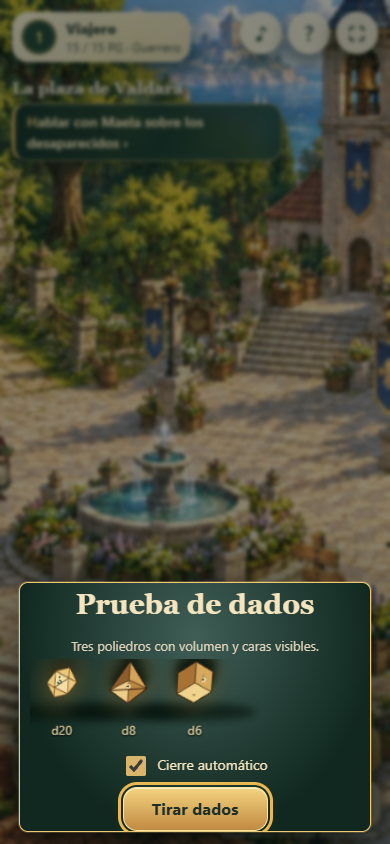
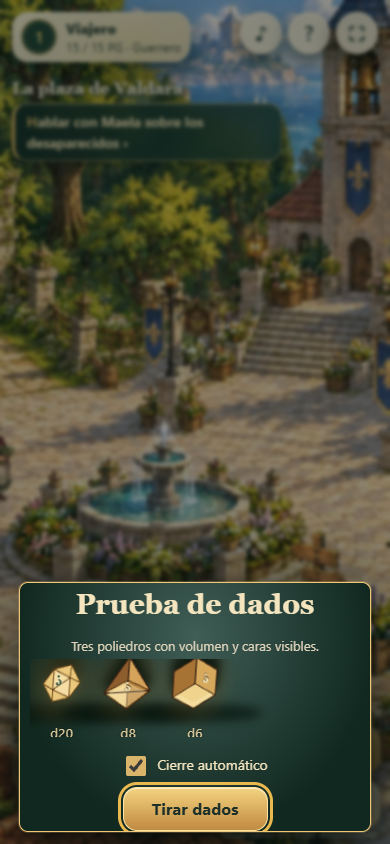
fix: keep dice faces visible during animation

diff --git a/dist/dice.js b/dist/dice.js
@@ -6,8 +6,8 @@ window.CenizasDice=(()=>{
  function icoSvg(shown){const yaw=.52,pitch=-.34,cy=Math.cos(yaw),sy=Math.sin(yaw),cx=Math.cos(pitch),sx=Math.sin(pitch),project=v=>{let x=v[0]*cy+v[2]*sy,z=-v[0]*sy+v[2]*cy,y=v[1]*cx-z*sx;z=v[1]*sx+z*cx;return {x:60+x*22,y:60-y*22,z};},points=ICO_VERTICES.map(project),faces=ICO_FACES.map(face=>{const p=face.map(i=>points[i]);return {p,z:p.reduce((sum,v)=>sum+v.z,0)/3};}).sort((a,b)=>a.z-b.z),min=Math.min(...faces.map(f=>f.z)),max=Math.max(...faces.map(f=>f.z)),palette=['#9d6a2d','#bd8740','#d7a95c','#ebca82','#f6dfa9'],polys=faces.map(f=>{const shade=Math.round((f.z-min)/(max-min)*(palette.length-1)),pointsText=f.p.map(v=>`${v.x.toFixed(1)},${v.y.toFixed(1)}`).join(' ');return `<polygon class="d20-facet" style="fill:${palette[shade]}" points="${pointsText}"/>`;}).join(''),front=faces[faces.length-1].p,cx2=front.reduce((sum,v)=>sum+v.x,0)/3,cy2=front.reduce((sum,v)=>sum+v.y,0)/3,target=Number(shown),remaining=Array.from({length:20},(_,i)=>i+1).filter(n=>n!==target),labels=shown==='?'?'':faces.map((f,i)=>{const c=f.p.reduce((o,v)=>({x:o.x+v.x,y:o.y+v.y}),{x:0,y:0}),n=i===faces.length-1?target:remaining[i-(i>faces.length-1?1:0)];return `<text class="${i===faces.length-1?'d20-number':'d20-face-number'}" x="${(c.x/3).toFixed(1)}" y="${(c.y/3).toFixed(1)}" text-anchor="middle" dominant-baseline="middle">${n}</text>`;}).join('');return `<svg class="d20-svg" viewBox="0 0 120 120" aria-hidden="true">${polys}${labels}${shown==='?'?`<text class="d20-number" x="${cx2.toFixed(1)}" y="${cy2.toFixed(1)}" text-anchor="middle" dominant-baseline="middle">?</text>`:''}</svg>`;}
  function pipPoints(value){return({1:[[0,0]],2:[[-.48,-.48],[.48,.48]],3:[[-.48,-.48],[0,0],[.48,.48]],4:[[-.48,-.48],[.48,-.48],[-.48,.48],[.48,.48]],5:[[-.48,-.48],[.48,-.48],[0,0],[-.48,.48],[.48,.48]],6:[[-.48,-.52],[.48,-.52],[-.48,0],[.48,0],[-.48,.52],[.48,.52]]})[Math.max(1,Math.min(6,Number(value)||1))];}
  function facePips(value,face){const [ox,oy,slant]=face==='left'?[36,70,1]:[84,70,-1];return pipPoints(value).map(([u,v])=>`<circle class="d6-pip" cx="${(ox+u*23).toFixed(1)}" cy="${(oy+slant*u*13+v*22).toFixed(1)}" r="4.2"/>`).join('');}
- function d6Svg(shown){const value=Math.max(1,Math.min(6,Number(shown)||1)),unknown=shown==='?';return `<svg class="d6-svg" viewBox="0 0 120 120" aria-hidden="true"><polygon class="d6-face d6-top" points="60,7 108,33 60,59 12,33"/><polygon class="d6-face d6-left" points="12,33 60,59 60,113 12,86"/><polygon class="d6-face d6-right" points="108,33 60,59 60,113 108,86"/><path class="d6-edge" d="M60 7 108 33 108 86 60 113 12 86 12 33Z M60 59V113"/>${unknown?'<text class="d6-number" x="84" y="73" text-anchor="middle" dominant-baseline="middle">?</text>':facePips(value,'left')+facePips(value,'right')}<text class="d6-face-label" x="60" y="30" text-anchor="middle">d6</text></svg>`;}
- function d8Svg(shown){const unknown=shown==='?',value=unknown?'?':String(shown);return `<svg class="d8-svg" viewBox="0 0 120 120" aria-hidden="true"><polygon class="d8-face d8-top-left" points="60,6 8,42 60,66"/><polygon class="d8-face d8-top-right" points="60,6 112,42 60,66"/><polygon class="d8-face d8-bottom-left" points="8,42 60,66 60,114"/><polygon class="d8-face d8-bottom-right" points="112,42 60,66 60,114"/><path class="d8-edge" d="M60 6 112 42 60 114 8 42Z M8 42H112 M60 66V114"/><text class="d8-number" x="60" y="57" text-anchor="middle" dominant-baseline="middle">${value}</text></svg>`;}
+ function d6Svg(shown){const value=Math.max(1,Math.min(6,Number(shown)||1)),unknown=shown==='?';return `<svg class="d6-svg" viewBox="0 0 120 120" aria-hidden="true"><polygon class="d6-face d6-top" points="60,7 108,33 60,59 12,33"/><polygon class="d6-face d6-left" points="12,33 60,59 60,113 12,86"/><polygon class="d6-face d6-right" points="108,33 60,59 60,113 108,86"/><path class="d6-edge" d="M60 7 108 33 108 86 60 113 12 86 12 33Z M60 59V113"/><path class="d6-highlight" d="M60 11 101 33 94 37 60 19 26 37 19 33Z"/>${unknown?'<text class="d6-number" x="84" y="73" text-anchor="middle" dominant-baseline="middle">?</text>':facePips(value,'left')+facePips(value,'right')}</svg>`;}
+ function d8Svg(shown){const unknown=shown==='?',value=unknown?'?':String(shown);return `<svg class="d8-svg" viewBox="0 0 120 120" aria-hidden="true"><polygon class="d8-face d8-top-left" points="60,6 8,42 60,66"/><polygon class="d8-face d8-top-right" points="60,6 112,42 60,66"/><polygon class="d8-face d8-bottom-left" points="8,42 60,66 60,114"/><polygon class="d8-face d8-bottom-right" points="112,42 60,66 60,114"/><path class="d8-edge" d="M60 6 112 42 60 114 8 42Z M8 42H112 M60 66V114"/><path class="d8-highlight" d="M60 11 101 40 60 59 19 40Z"/><text class="d8-number" x="60" y="57" text-anchor="middle" dominant-baseline="middle">${value}</text></svg>`;}
  function fallbackSvg(shown,sides=6){return sides===8?d8Svg(shown):d6Svg(shown);}
  function d20(value='?',sides=20,index=0,preview=false){const wrap=document.createElement('div');wrap.className='die-wrap';const die=document.createElement('div');die.className='die-3d'+(preview?' preview':'');die.dataset.sides=sides;die.dataset.value=value;die.style.setProperty('--roll-delay',`${index*110}ms`);die.style.setProperty('--settle-rotation',`${((Number(value)||index+1)*17)%28-14}deg`);const shown=preview?'?':String(value);die.innerHTML=sides===20?icoSvg(shown):fallbackSvg(shown,sides);wrap.append(die);const caption=document.createElement('small');caption.textContent='d'+sides;wrap.append(caption);return wrap;}
  function show({title,detail='',optional=false,resolve,auto=false,autoAdvance=false,combat=false,previewDice=[],attack=false}){

diff --git a/dist/chapter.css b/dist/chapter.css
@@ -258,3 +258,10 @@ body[data-hero-subclass="Tejedor"] #battle [data-unit="hero"] .combat-art{filter
 #dice-dialog.attack-roll #dice-tray .die-3d,#dice-dialog.attack-roll #dice-tray .die-3d.preview{--die-size:min(68px,100%)}
 @media(max-height:500px){#dice-dialog.attack-roll{max-height:min(250px,calc(100dvh - 16px));padding:8px 12px}#dice-dialog.attack-roll #dice-tray{min-height:70px;height:70px;gap:4px}#dice-dialog.attack-roll #dice-tray .die-wrap{height:70px}#dice-dialog.attack-roll #dice-tray .die-3d,#dice-dialog.attack-roll #dice-tray .die-3d.preview{--die-size:min(58px,100%)}#dice-dialog.attack-roll #dice-tray .die-wrap small{font-size:11px}}
 @media(max-width:420px){#dice-dialog.attack-roll{padding-inline:10px}#dice-dialog.attack-roll #dice-tray{gap:3px}#dice-dialog.attack-roll #dice-tray .die-3d,#dice-dialog.attack-roll #dice-tray .die-3d.preview{--die-size:min(52px,100%)}}
+#dice-dialog.attack-roll #dice-tray .die-wrap{transform:none}
+#dice-dialog.attack-roll #dice-tray .die-3d,#dice-dialog.attack-roll #dice-tray .die-3d.preview{--die-size:min(72px,100%);will-change:transform}
+#dice-tray .d6-highlight,#dice-tray .d8-highlight{fill:#fff4c94d;stroke:#fff4c980;stroke-width:1;stroke-linejoin:round;pointer-events:none}
+#dice-tray .d6-pip{filter:drop-shadow(0 1px 1px #06140dcc)}
+@supports (animation-timing-function:linear(0,1)){#dice-tray .die-3d{animation-timing-function:linear(0,0.12 38%,1.08 64%,0.96 82%,1)}}
+@media(max-height:500px){#dice-dialog.attack-roll #dice-tray .die-3d,#dice-dialog.attack-roll #dice-tray .die-3d.preview{--die-size:min(62px,100%)}}
+@media(max-width:420px){#dice-dialog.attack-roll #dice-tray .die-3d,#dice-dialog.attack-roll #dice-tray .die-3d.preview{--die-size:min(58px,100%)}}

diff --git a/CHANGELOG.md b/CHANGELOG.md
@@ -7,6 +7,7 @@
 - Se cubrieron cadencia diagonal/cardinal a 30/60/144 FPS, pausa de cinco segundos, recuperación sin desplazamiento fantasma, sin ráfaga de poses y con un único cambio de pose útil.
 - Se reemplazó el fallback plano de d6/d8 por siluetas facetadas con volumen, pips y sombreado; el d20 conserva sus caras numeradas y la animación de caída.
 - El carril de cinco dados de ataque queda en una sola fila acotada en horizontal; ya no intercepta `Tirar dados` en 667×375.
+- Se aumentó el tamaño mínimo visible, se añadió brillo de material y easing de rebote; se evitó `backface-visibility` porque ocultaba las caras durante el giro.
 - La matriz E2E completa pasó en las cuatro resoluciones (`20/20`) y el flujo de campaña aislado pasó (`8/8`) tras el ajuste.
 
 ### Antes → después
@@ -17,6 +18,7 @@
 | Delta acumulado        | Una pestaña oculta podía entregar un delta grande al volver.                     | `VisibilityGuard` pone el delta/elapsed a cero y descarta el primer frame de recuperación.      |
 | Animación al recuperar | El primer frame podía cambiar varias poses o pasos seguidos.                     | La transición no mueve ni cambia poses; el primer frame útil permite como máximo un cambio.     |
 | Dados de combate       | d6/d8 se dibujaban como una figura plana y cinco dados podían envolver el botón. | Cada poliedro tiene una silueta 3D legible; el carril conserva una fila y el botón queda libre. |
+| Giro de las caras      | El acabado 3D podía dejar las caras ocultas durante la rotación.                 | Las caras permanecen visibles, con brillo y rebote, respetando `prefers-reduced-motion`.        |
 
 ### Riesgos conocidos
 
